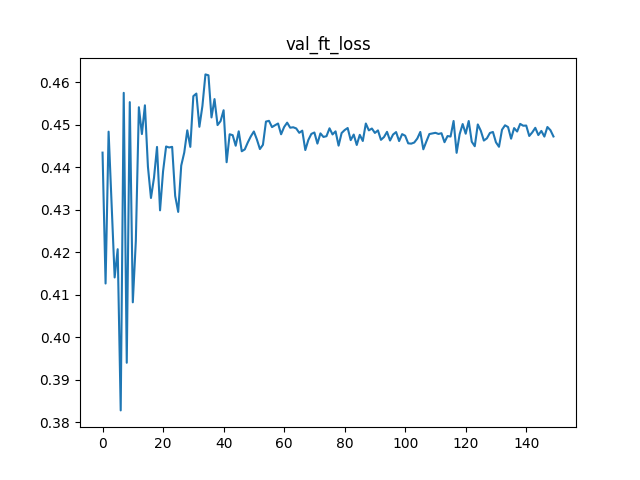
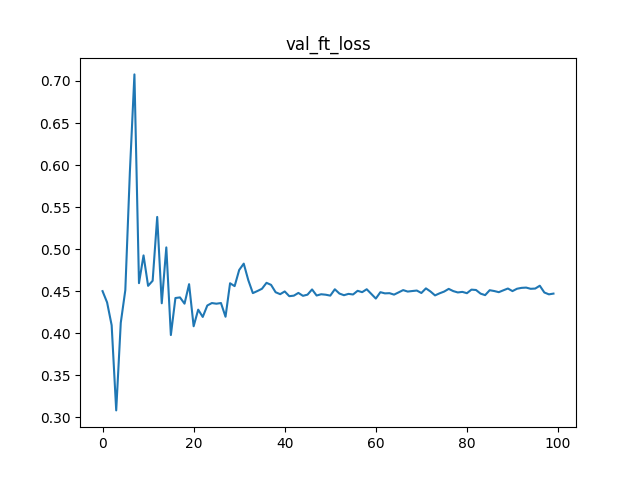
metrics look bad

diff --git a/Code/ddpTrainAdvaserial.py b/Code/ddpTrainAdvaserial.py
@@ -14,7 +14,7 @@ from utils import (
     compute_gradient_norm, compute_psd,
     spline_to_kernel, compute_fft, huber
 )
-from Discriminator import MultiScaleDiscriminator, lsgan_d_loss, lsgan_g_loss
+from Discriminator import MultiScaleDiscriminator, lsgan_d_loss, lsgan_g_loss #type: ignore
 from dataclasses import dataclass
 from pathlib import Path
 from tqdm import tqdm
@@ -33,8 +33,8 @@ class TrainConfig:
     alpha: float = 0.5
     lr: float = 1e-4
     d_lr: float = 2e-4
-    lambda_adv: float = 1.0
-    epochs: int = 22
+    lambda_adv: float = 0.1
+    epochs: int = 100
     batch_size: int = 16
     resume: bool = False
     sched_factor: float = 0.5

diff --git a/Code/main.py b/Code/main.py
@@ -1,7 +1,7 @@
 import matplotlib.pyplot as plt
 import pandas as pd
 
-df = pd.read_csv('/home/cxv166/PhantomTesting/Code/training_output_0.5/training_metrics_20260330_170421.csv')
+df = pd.read_csv('/home/cxv166/PhantomTesting/Code/training_output_0.5/training_metrics_20260413_200905.csv')
 
 print(df.head())
 
@@ -15,9 +15,9 @@ plt.title('val mtf loss')
 plt.savefig('mtf_loss')
 plt.clf()
 
-plt.plot(df['val_recon_loss'])
-plt.title('val recon loss')
-plt.savefig('recon_loss')
+plt.plot(df['val_g_adv_loss'])
+plt.title('val_g_adv_loss')
+plt.savefig('g_adv__loss')
 plt.clf()
 
 plt.plot(df['val_total_loss'])
